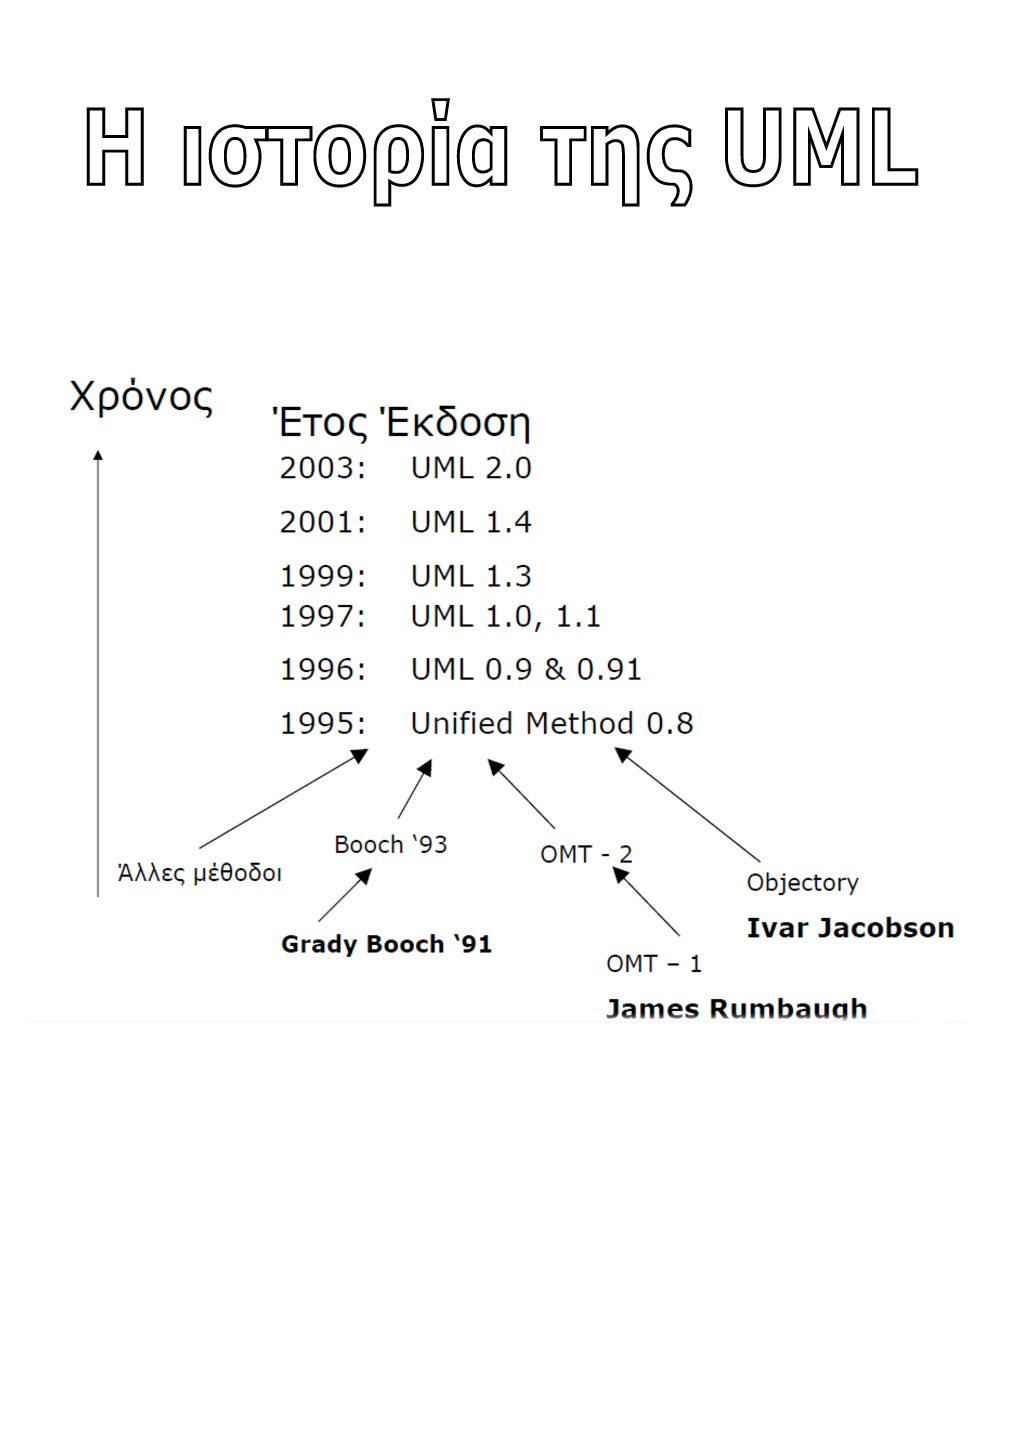
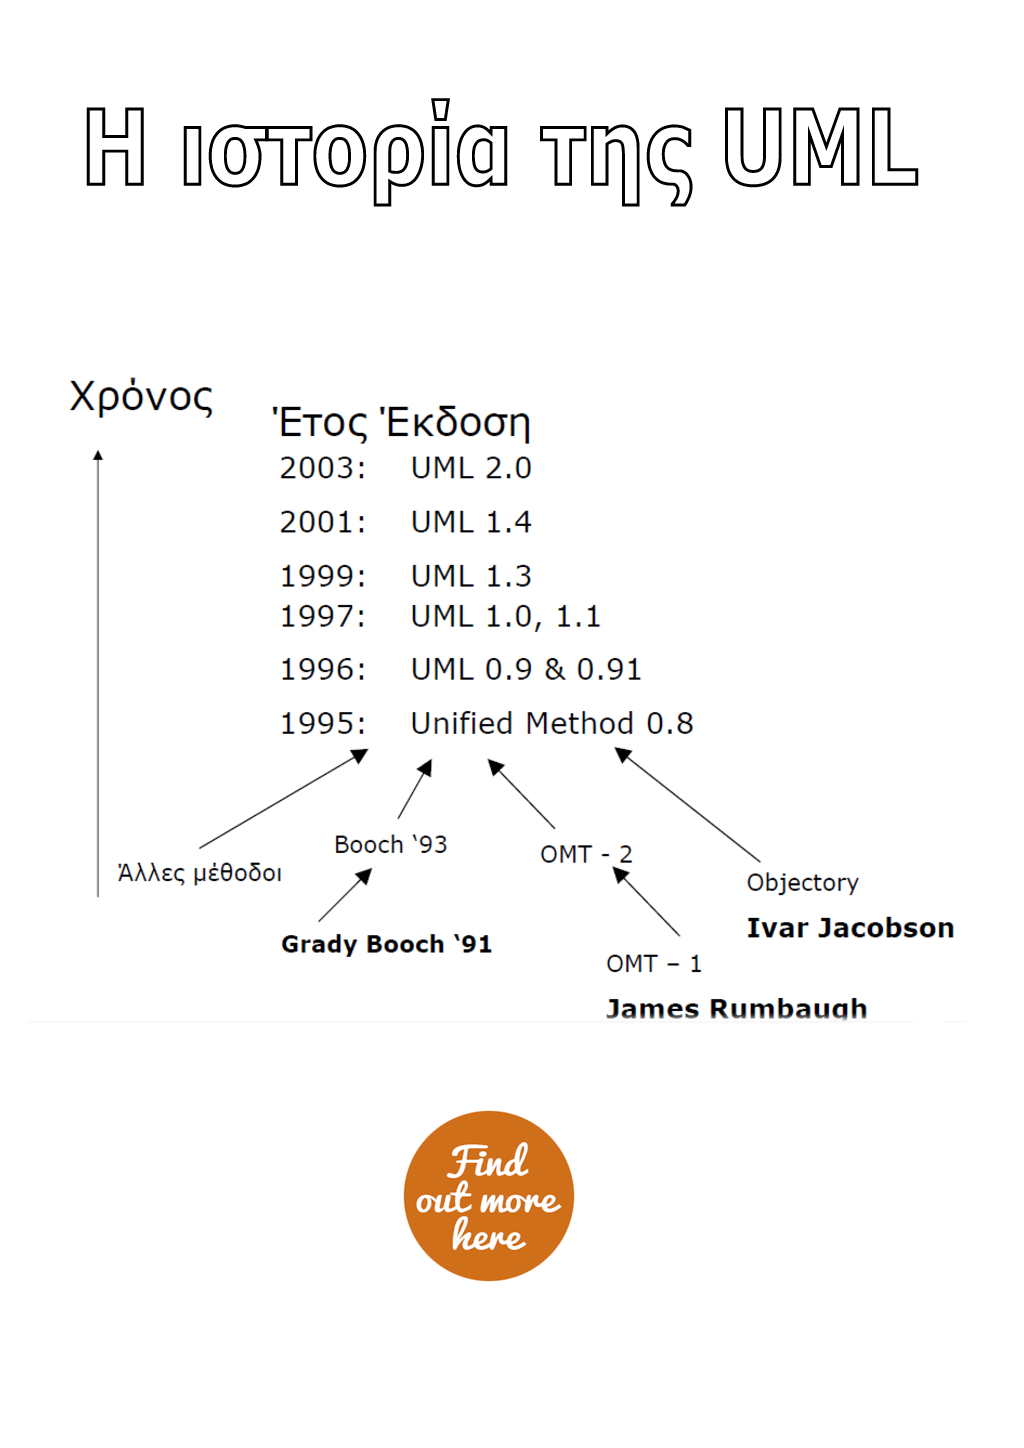
updated

Changed region(s): [[0.375, 0.7459, 0.5625, 0.9012]]

diff --git a/img242.html b/img242.html
@@ -59,6 +59,7 @@ body {
 <h1> <a href="img0.html"<h2> Πρώτη σελίδα -</a> <a href="img241.html"> Προηγούμενη σελίδα -</a> <a href="img243.html"> Επόμενη σελίδα -</a> <a href="img630.html"> Τελευταία σελίδα -</a> <a href="pinakas.html"> Πίνακας Περιεχομένων</a> </center><br>
 <center> <img src="img242.png" alt="" USEMAP="#map0"></center> </h1> 
 <map name="map0">
-
+<area shape="circle" title="Brian Kernighan" alt="" coords="489,1196,85" href="https://en.wikipedia.org/wiki/Unified_Modeling_Language#History" target="_blank">
+</map>
 </body>
 </html>
